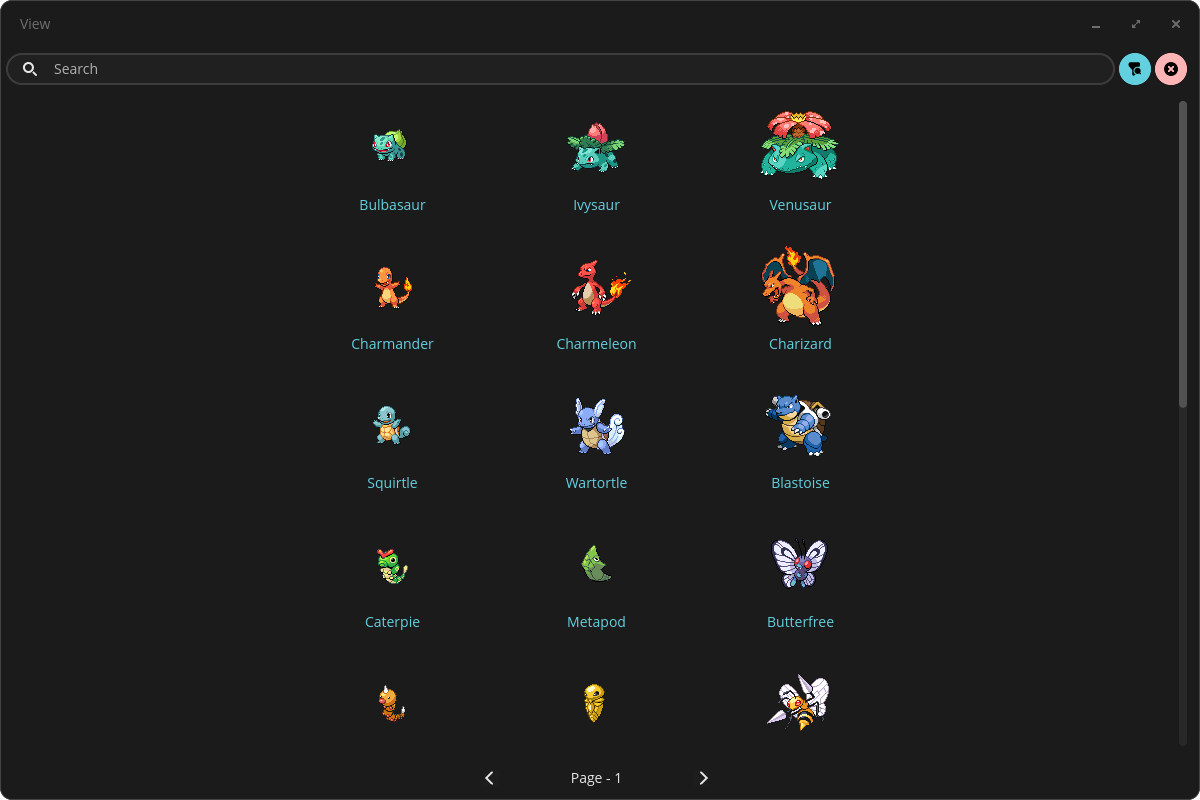
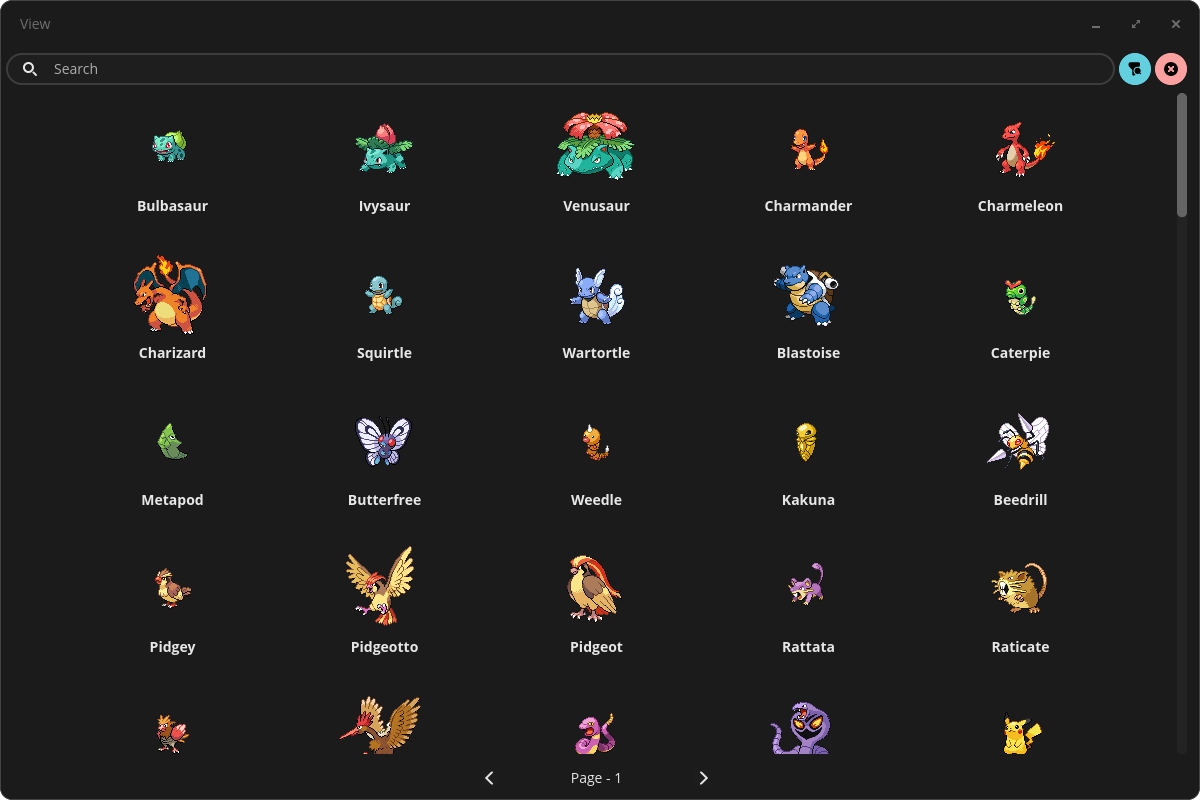
feat: update app style & screenshots

diff --git a/src/app.rs b/src/app.rs
@@ -972,6 +972,10 @@ pub fn homepage<'a>(
                         .push(
                             text(capitalize_string(&pokemon.name))
                                 .width(Length::Shrink)
+                                .font(cosmic::iced::Font {
+                                    weight: cosmic::iced::font::Weight::Bold,
+                                    ..Default::default()
+                                })
                                 .line_height(LineHeight::Absolute(Pixels::from(15.0))),
                         )
                         .width(Length::Fill)
@@ -980,8 +984,7 @@ pub fn homepage<'a>(
                 .width(Length::Fixed(200.0))
                 .height(Length::Fixed(135.0))
                 .on_press_down(Message::LoadPokemon(pokemon.id))
-                .class(theme::Button::Image)
-                .padding([spacing.space_none, spacing.space_s]);
+                .class(theme::Button::IconVertical);
 
                 // Insert a new row before adding the first Pokémon of each row
                 if index % pokemon_per_row == 0 {
@@ -1011,6 +1014,10 @@ pub fn homepage<'a>(
                             .push(
                                 text(capitalize_string(&pokemon.name))
                                     .width(Length::Shrink)
+                                    .font(cosmic::iced::Font {
+                                        weight: cosmic::iced::font::Weight::Bold,
+                                        ..Default::default()
+                                    })
                                     .line_height(LineHeight::Absolute(Pixels::from(15.0))),
                             )
                             .width(Length::Fill)
@@ -1019,8 +1026,7 @@ pub fn homepage<'a>(
                     .width(Length::Fixed(200.0))
                     .height(Length::Fixed(135.0))
                     .on_press_down(Message::LoadPokemon(pokemon.id))
-                    .class(theme::Button::Image)
-                    .padding([spacing.space_none, spacing.space_s])
+                    .class(theme::Button::IconVertical)
                     .into()
                 })
                 .collect();
